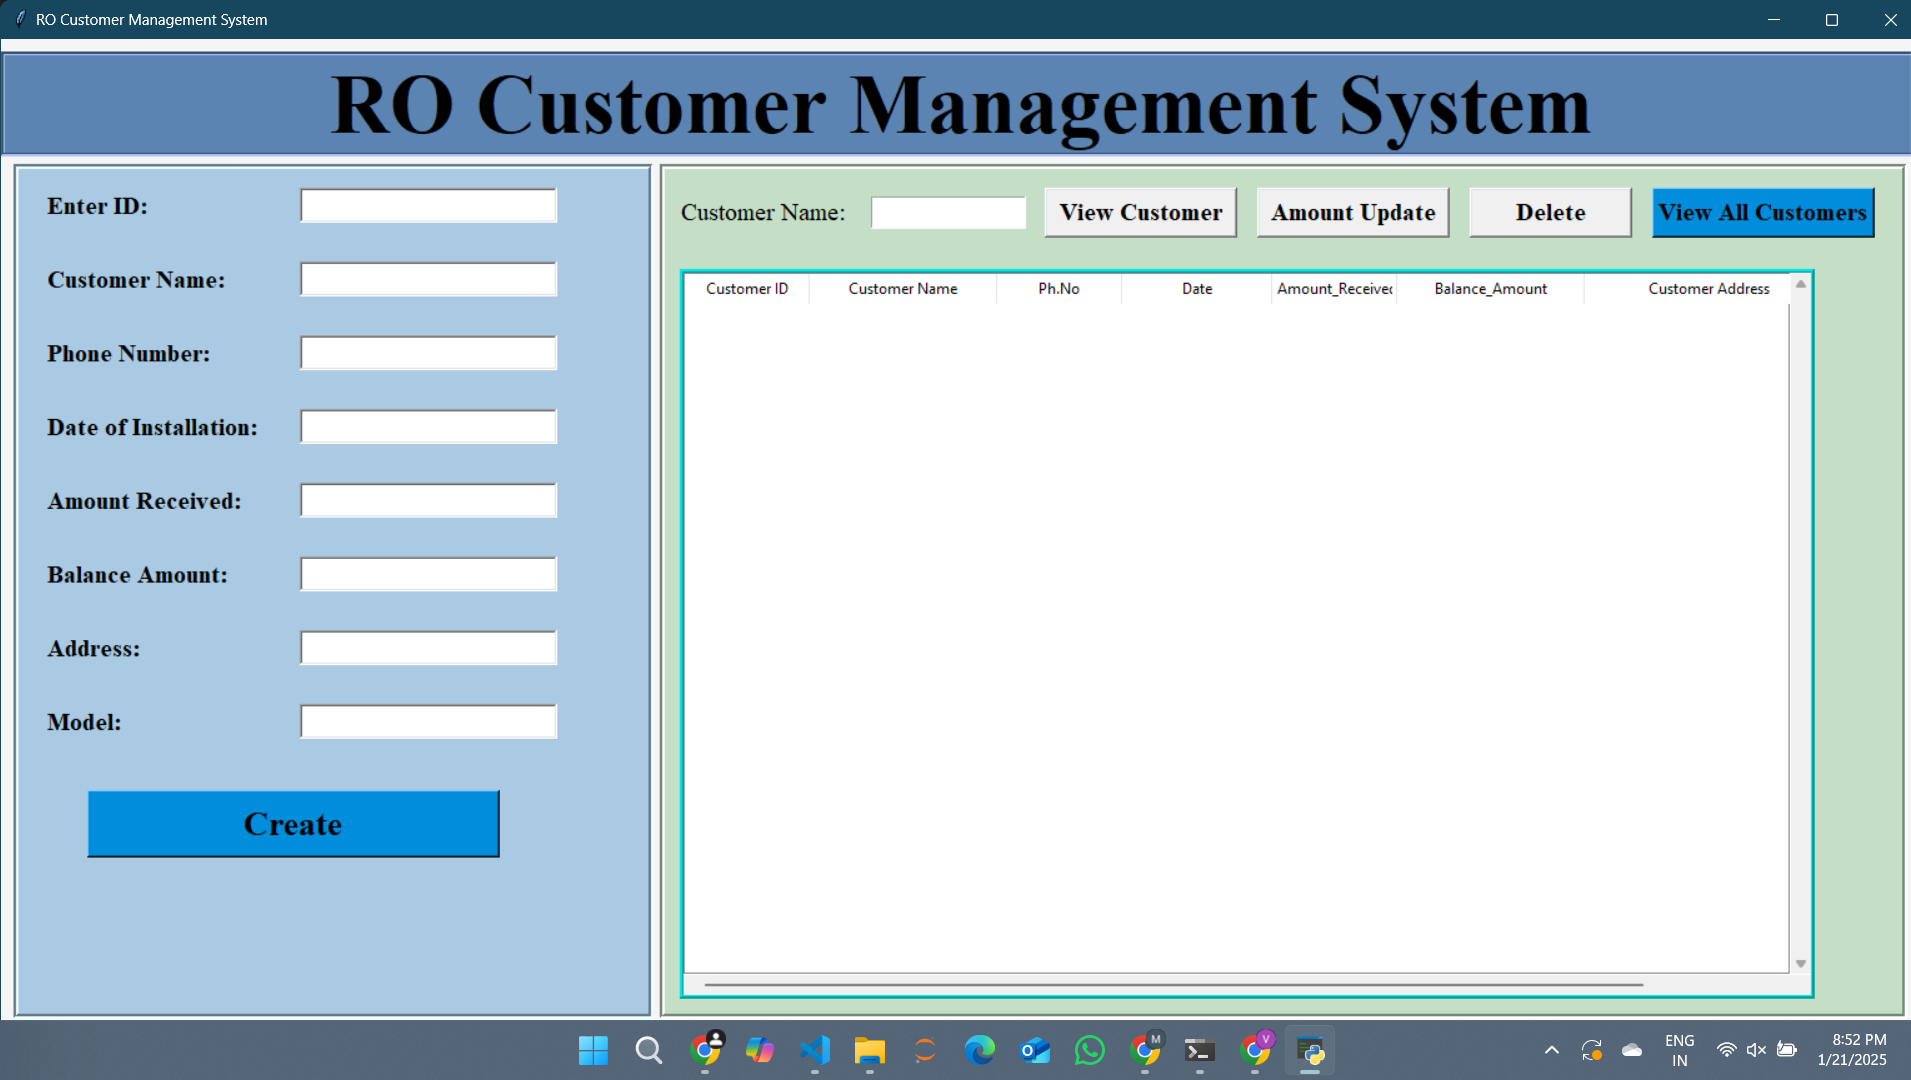
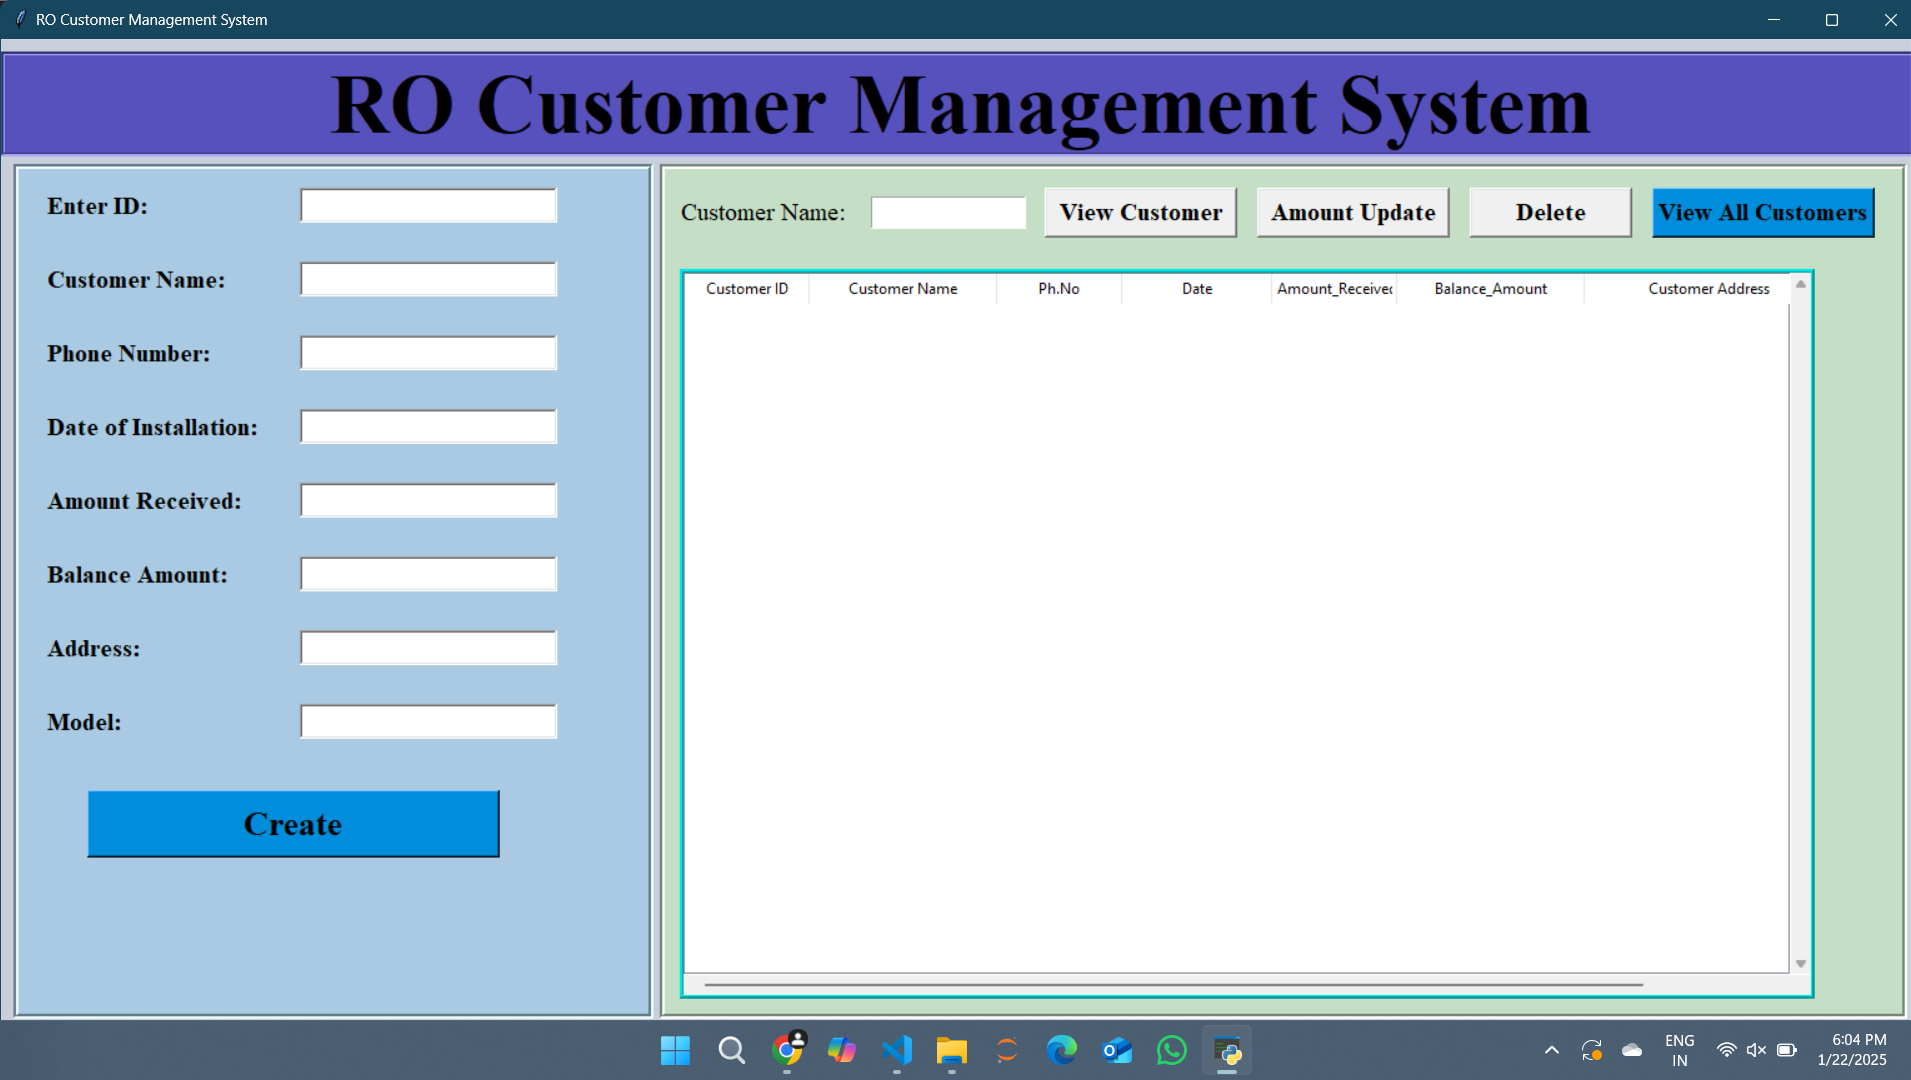
README file added

Changed region(s): [[0.0, 0.0306, 1.0, 1.0]]

diff --git a/customer_management_system.py b/customer_management_system.py
@@ -11,69 +11,68 @@ class Customer:
         self.width = self.root.winfo_screenwidth()
         self.height = self.root.winfo_screenheight()
         self.root.geometry(f"{self.width}x{self.height}+0+0")
-        self.root.config(bg=self.clr(245, 245, 245))
+        self.root.config(bg=self.clr(200, 207, 219))
 
         self.client = pymongo.MongoClient("mongodb://localhost:27017/")
         self.db = self.client["customer_management"]
         self.collection = self.db["customers"]
 
-        title = tk.Label(self.root, bg=self.clr(92, 132, 179), text="RO Customer Management System", bd=3, relief="groove", font=("Times New Roman", 50, "bold"))
+        # Title
+        title = tk.Label(self.root, bg=self.clr(87, 81, 189), text="RO Customer Management System", bd=3, relief="groove", font=("Times New Roman", 50, "bold"))
         title.pack(side="top", fill="x", pady=10)
 
+        # Main Frame
         inFrame = tk.Frame(self.root, bd=4, relief="groove", bg=self.clr(169, 202, 226))
         inFrame.place(width=self.width / 3, height=self.height - 180, x=10, y=100)
 
-        idLbl = tk.Label(inFrame, text="Enter ID:", bg=self.clr(169, 202, 226), font=("Times New Roman", 15, "bold"))
-        idLbl.grid(row=0, column=0, padx=20, pady=15, sticky="w")
-        self.idIn = tk.Entry(inFrame, width=20, bd=2, font=("Times New Roman", 15))
-        self.idIn.grid(row=0, column=1, padx=10, pady=15)
+        # Create form fields
+        self.create_form_fields(inFrame)
 
-        nameLbl = tk.Label(inFrame, text="Customer Name:", bg=self.clr(169, 202, 226), font=("Times New Roman", 15, "bold"))
-        nameLbl.grid(row=1, column=0, padx=20, pady=15, sticky="w")
-        self.nameIn = tk.Entry(inFrame, width=20, bd=2, font=("Times New Roman", 15))
-        self.nameIn.grid(row=1, column=1, padx=10, pady=15)
-
-        phLbl = tk.Label(inFrame, text="Phone Number:", bg=self.clr(169, 202, 226), font=("Times New Roman", 15, "bold"))
-        phLbl.grid(row=2, column=0, padx=20, pady=15, sticky="w")
-        self.phIn = tk.Entry(inFrame, width=20, bd=2, font=("Times New Roman", 15))
-        self.phIn.grid(row=2, column=1, padx=10, pady=15)
-
-        dateLbl = tk.Label(inFrame, text="Date of Installation:", bg=self.clr(169, 202, 226), font=("Times New Roman", 15, "bold"))
-        dateLbl.grid(row=3, column=0, padx=20, pady=15, sticky="w")
-        self.deleteIn = tk.Entry(inFrame, width=20, bd=2, font=("Times New Roman", 15))
-        self.deleteIn.grid(row=3, column=1, padx=10, pady=15)
-
-        amount_receivedLbl = tk.Label(inFrame, text="Amount Received:", bg=self.clr(169, 202, 226), font=("Times New Roman", 15, "bold"))
-        amount_receivedLbl.grid(row=4, column=0, padx=20, pady=15, sticky="w")
-        self.amount_receivedIn = tk.Entry(inFrame, width=20, bd=2, font=("Times New Roman", 15))
-        self.amount_receivedIn.grid(row=4, column=1, padx=10, pady=15)
-
-        balance_amountLbl = tk.Label(inFrame, text="Balance Amount:", bg=self.clr(169, 202, 226), font=("Times New Roman", 15, "bold"))
-        balance_amountLbl.grid(row=5, column=0, padx=20, pady=15, sticky="w")
-        self.balance_amountIn = tk.Entry(inFrame, width=20, bd=2, font=("Times New Roman", 15))
-        self.balance_amountIn.grid(row=5, column=1, padx=10, pady=15)
-
-        addressLbl = tk.Label(inFrame, text="Address:", bg=self.clr(169, 202, 226), font=("Times New Roman", 15, "bold"))
-        addressLbl.grid(row=6, column=0, padx=20, pady=15, sticky="w")
-        self.addressIn = tk.Entry(inFrame, width=20, bd=2, font=("Times New Roman", 15))
-        self.addressIn.grid(row=6, column=1, padx=10, pady=15)
-
-        modelLbl = tk.Label(inFrame, text="Model:", bg=self.clr(169, 202, 226), font=("Times New Roman", 15, "bold"))
-        modelLbl.grid(row=7, column=0, padx=20, pady=15, sticky="w")
-        self.modelIn = tk.Entry(inFrame, width=20, bd=2, font=("Times New Roman", 15))  # New Model input field
-        self.modelIn.grid(row=7, column=1, padx=10, pady=15)
-
+        # Button to create a new customer
         okBtn = tk.Button(inFrame, text="Create", command=self.insertFun, bd=2, relief="raised", bg=self.clr(0, 142, 220), font=("Times New Roman", 20, "bold"), width=20)
         okBtn.grid(padx=30, pady=25, columnspan=2)
 
+        # Details frame for search, update, and delete actions
         self.detFrame = tk.Frame(self.root, bd=4, relief="groove", bg=self.clr(197, 223, 199))
         self.detFrame.place(width=self.width / 2 + 230, height=self.height - 180, x=self.width / 3 + 15, y=100)
 
+        # Initialize customer action buttons (view, update, delete, etc.)
+        self.create_customer_actions()
+
+        # Initialize table for displaying customer data
+        self.tabFun()
+
+    def create_form_fields(self, inFrame):
+        """ Create and place the form fields inside the provided frame """
+        
+        # Initialize form fields
+        self.idIn = self.create_form_input(inFrame, "Enter ID:", 0)
+        self.nameIn = self.create_form_input(inFrame, "Customer Name:", 1)
+        self.phIn = self.create_form_input(inFrame, "Phone Number:", 2)
+        self.dateIn = self.create_form_input(inFrame, "Date of Installation:", 3)
+        self.amount_receivedIn = self.create_form_input(inFrame, "Amount Received:", 4)
+        self.balance_amountIn = self.create_form_input(inFrame, "Balance Amount:", 5)
+        self.addressIn = self.create_form_input(inFrame, "Address:", 6)
+        self.modelIn = self.create_form_input(inFrame, "Model:", 7)
+
+    def create_form_input(self, frame, label_text, row):
+        """ Helper method to create form fields with label and input field """
+        label = tk.Label(frame, text=label_text, bg=self.clr(169, 202, 226), font=("Times New Roman", 15, "bold"))
+        label.grid(row=row, column=0, padx=20, pady=15, sticky="w")
+        
+        entry = tk.Entry(frame, width=20, bd=2, font=("Times New Roman", 15))
+        entry.grid(row=row, column=1, padx=10, pady=15)
+        
+        return entry
+
+    def create_customer_actions(self):
+        """ Create action buttons for customer search, update, delete, etc. """
         pIdLbl = tk.Label(self.detFrame, text="Customer Name:", bg=self.clr(197, 223, 199), font=("Times New Roman", 15))
         pIdLbl.grid(row=0, column=0, padx=10, pady=15, sticky="w")
         self.pIdIn = tk.Entry(self.detFrame, bd=1, width=12, font=("Times New Roman", 15))
         self.pIdIn.grid(row=0, column=1, padx=7, pady=15)
 
+        # Action buttons
         view_customerBtn = tk.Button(self.detFrame, command=self.viewCustomerFun, text="View Customer", width=12, font=("Times New Roman", 15, "bold"), bd=2, relief="raised")
         view_customerBtn.grid(row=0, column=2, padx=8, pady=15)
 
@@ -86,9 +85,8 @@ class Customer:
         viewAllBtn = tk.Button(self.detFrame, command=self.viewAllcustomers, text="View All Customers", width=14, font=("Times New Roman", 15, "bold"), bd=2, relief="raised", bg=self.clr(0, 142, 220))
         viewAllBtn.grid(row=0, column=5, padx=8, pady=15)
 
-        self.tabFun()
-
     def tabFun(self):
+        """ Setup the table to display customer details """
         self.tabFrame = tk.Frame(self.detFrame, bd=3, relief="ridge", bg="cyan")
         self.tabFrame.place(width=self.width / 2 + 140, height=self.height - 280, x=12, y=80)
 
@@ -143,7 +141,7 @@ class Customer:
             "Id": customer_id,
             "Name": self.nameIn.get(),
             "Ph.no": self.phIn.get(),
-            "Date": self.deleteIn.get(),
+            "Date": self.dateIn.get(),
             "Amount_Received": int(self.amount_receivedIn.get()) if self.amount_receivedIn.get().isdigit() else 0,
             "Balance_Amount": self.balance_amountIn.get(),
             "Address": self.addressIn.get(),
@@ -176,120 +174,33 @@ class Customer:
             ))
 
     def clearFun(self):
-        self.idIn.delete(0, "end")
-        self.nameIn.delete(0, "end")
-        self.phIn.delete(0, "end")
-        self.deleteIn.delete(0, "end")
-        self.amount_receivedIn.delete(0, "end")
-        self.balance_amountIn.delete(0, "end")
-        self.addressIn.delete(0, "end")
-        self.modelIn.delete(0, "end")
-
-    def viewAllcustomers(self):
-        self.table.delete(*self.table.get_children())
-        customers = self.collection.find()
-        for customer in customers:
-            self.table.insert('', tk.END, values=(
-                customer["Id"],
-                customer["Name"].upper(),
-                customer["Ph.no"].upper(),
-                customer["Date"].upper(),
-                str(customer["Amount_Received"]),
-                customer["Balance_Amount"].upper(),
-                customer["Address"].upper(),
-                customer.get("Model", "N/A").upper()  # If Model doesn't exist, show "N/A"
-            ))
+        self.idIn.delete(0, tk.END)
+        self.nameIn.delete(0, tk.END)
+        self.phIn.delete(0, tk.END)
+        self.dateIn.delete(0, tk.END)
+        self.amount_receivedIn.delete(0, tk.END)
+        self.balance_amountIn.delete(0, tk.END)
+        self.addressIn.delete(0, tk.END)
+        self.modelIn.delete(0, tk.END)
 
     def viewCustomerFun(self):
-        name = self.pIdIn.get()
-        if not name:
-            tk.messagebox.showerror("Error", "Please enter the customer Name to view.")
-            return
-
-        customer = self.collection.find_one({"Name": name})
-        if customer:
-            tk.messagebox.showinfo("Customer Details", f"ID: {customer['Id']}\n"
-                                                     f"Name: {customer['Name']}\n"
-                                                     f"Phone: {customer['Ph.no']}\n"
-                                                     f"Date: {customer['Date']}\n"
-                                                     f"Amount Received: {customer['Amount_Received']}\n"
-                                                     f"Balance: {customer['Balance_Amount']}\n"
-                                                     f"Address: {customer['Address']}\n"
-                                                     f"Model: {customer.get('Model', 'N/A')}")
-        else:
-            tk.messagebox.showerror("Error", "Customer not found.")
-
+        # Function to view a customer
+        pass
 
     def Amount_UpdateFun(self):
-        self.pointFrame = tk.Frame(self.root, bg="light gray", bd=3, relief="ridge")
-        self.pointFrame.place(width=400, height=150, x=500, y=200)
-        
-        lbl = tk.Label(self.pointFrame, text="Enter Amount:", bg="light gray", font=("Times New Roman", 15, "bold"))
-        lbl.grid(row=0, column=0, padx=20, pady=20)
-        
-        self.pointIn = tk.Entry(self.pointFrame, width=17, bd=2, font=("Times New Roman", 15, "bold"))
-        self.pointIn.grid(row=0, column=1, padx=10, pady=20)
-        
-        okBtn = tk.Button(self.pointFrame, command=self.addPoint, text="Update Amount", bd=2, relief="raised", font=("Times New Roman", 15, "bold"), width=15, bg=self.clr(157, 112, 207))
-        okBtn.grid(row=1, column=0, padx=10, pady=10, columnspan=2)
-
-    def addPoint(self):
-        name = self.pIdIn.get().strip()  
-        hp_input = self.pointIn.get().strip()
-
-        if name:
-            customer = self.collection.find_one({"Name": name})
-            if customer:
-                try:
-                    new_points = int(hp_input)
-
-                    current_received = customer["Amount_Received"]
-                    current_balance = float(customer["Balance_Amount"])  
-
-
-                    updated_received = current_received + new_points
-                    updated_balance = current_balance - new_points
-
-
-                    if updated_balance < 0:
-                        tk.messagebox.showerror("Error", "Insufficient balance to deduct the entered amount.")
-                        self.pointFrame.destroy()  
-                        return
-
-
-                    self.collection.update_one({"Name": name}, {
-                        "$set": {
-                            "Amount_Received": updated_received,
-                            "Balance_Amount": str(updated_balance)  
-                        }
-                    })
-
-                    tk.messagebox.showinfo("Success", f"Updated Amount for customer {name}.")
-                    self.viewAllcustomers()  
-                    self.clearFun()  
-                    self.pointFrame.destroy()  
-                except ValueError:
-                    tk.messagebox.showerror("Error", "Please enter a valid Amount.")
-            else:
-                tk.messagebox.showerror("Error", "Customer not found.")
-        else:
-            tk.messagebox.showerror("Error", "Please enter the customer's name.")
-
+        # Function to update customer amounts
+        pass
 
     def deleteFun(self):
-        name = self.pIdIn.get().strip()
-        if name:
-            patient = self.collection.find_one({"Name": name})
-            if patient:
-                self.collection.delete_one({"Name": name})
-                tk.messagebox.showinfo("Success", f"Customer {name} has been Deleted.")
-                self.viewAllcustomers()
-            else:
-                tk.messagebox.showerror("Error", "Customer not found.")
-        else:
-            tk.messagebox.showerror("Error", "Please enter the customer's name.")
+        # Function to delete a customer
+        pass
 
+    def viewAllcustomers(self):
+        for row in self.table.get_children():
+            self.table.delete(row)
+        self.updateTable()
 
+# Entry point
 if __name__ == "__main__":
     root = tk.Tk()
     obj = Customer(root)

diff --git a/README.md b/README.md
@@ -1,0 +1,73 @@
+# Tkinter Ro Customer Management System
+
+A graphical user interface (GUI) application built using Python's Tkinter library to manage customer details efficiently.
+
+## Table of Contents
+
+- [Overview](#overview)
+- [Installation](#installation)
+- [Screenshots](#screenshots)
+- [Technologies Used](#technologies-used)
+- [Contributing](#contributing)
+- [License](#license)
+
+## Overview
+
+The Tkinter Ro Customer Management System is a desktop application that helps organizations(small business) manage various operations such as customer creation, deletion and updation.
+
+
+## Installation
+
+1. **Clone the repository**:
+    ```bash
+    git clone https://github.com/Murugavl/Tkinter-RO_Customer_Management_System.git
+    ```
+2. **Navigate to the project directory**:
+    ```bash
+    cd Tkinter-RO_Customer_Management_System
+    ```
+3. **Install required dependencies**:
+    ```bash
+    pip install -r requirements.txt
+    ```
+    
+
+4. **Run the application**:
+    ```bash
+    python main.py
+    ```
+
+## Screenshots
+![Hospital Management System UI](/static/img/ro_customer_management_system.png)
+
+
+## Technologies Used
+
+- **Python**: The main programming language.
+- **Tkinter**: For building the GUI.
+- **MongoDB**: For database management 
+
+
+## Contributing
+
+Contributions are welcome! Please follow these steps to contribute:
+
+1. **Fork the repository**.
+2. **Create a new branch**: 
+    ```bash
+    git checkout -b feature/YourFeatureName
+    ```
+3. **Commit your changes**:
+    ```bash
+    git commit -m 'Add some feature'
+    ```
+4. **Push to the branch**:
+    ```bash
+    git push origin feature/YourFeatureName
+    ```
+5. **Submit a pull request**.
+
+## License
+
+This project is licensed under the MIT License - see the [LICENSE](LICENSE) file for details.
+
